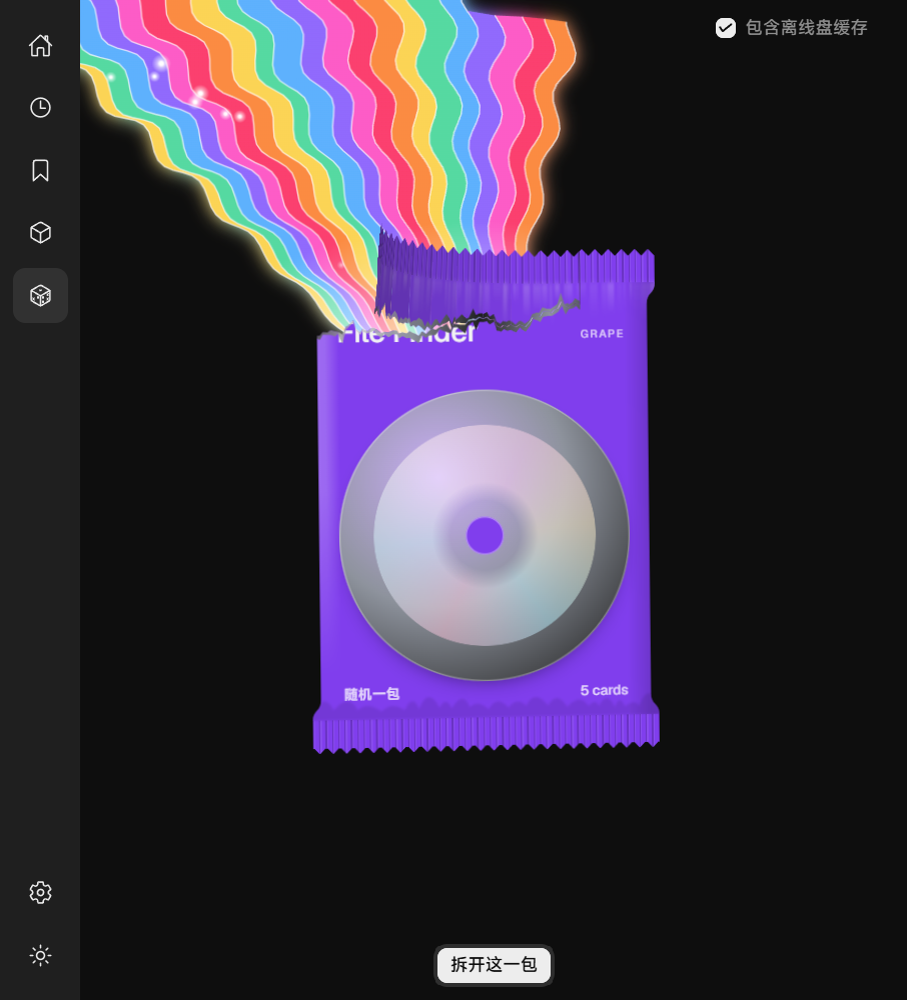
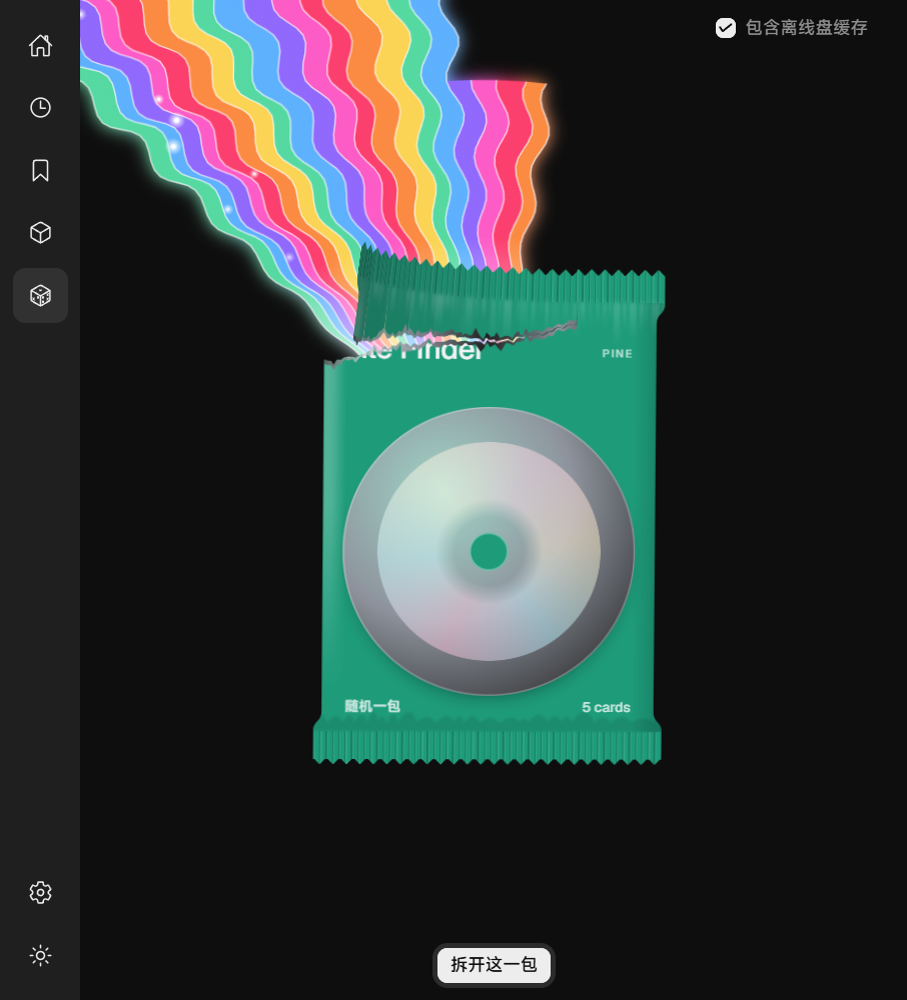
fix(lucky): card radius from --cw (not cqw), tear impulse feeds the rainbow

Changed region(s): [[0.0617, 0.0, 0.7409, 0.775]]

diff --git a/src/components/LuckyDiscCard/index.vue b/src/components/LuckyDiscCard/index.vue
@@ -126,11 +126,17 @@ function onLeave(ev: PointerEvent) {
     }
 }
 
-/* 厚度：三层叠片。底色必须是"两套主题下都比卡面暗一档"的那个 —— `--ff-canvas` 恰好成立 */
+/**
+ * 厚度：三层叠片。
+ *
+ * ⚠ 圆角必须用 `calc(var(--cw) * .05)`，**不能用 cqw**。
+ *    `cqw` 是"最近的容器"的 1%，而 `.slab` 不在 `.face` 里面 ⇒ 它一路找上去，
+ *    最后落在**视口**上 —— 5cqw 变成 64px，卡片被削成圆饼（真机就是这么丑的）。
+ */
 .slab {
     position: absolute;
     inset: 0;
-    border-radius: 5cqw;
+    border-radius: calc(var(--cw) * 0.05);
     background: var(--ff-canvas);
     pointer-events: none;
 
@@ -152,7 +158,9 @@ function onLeave(ev: PointerEvent) {
 .face {
     position: absolute;
     inset: 0;
-    border-radius: 5cqw;
+    /* 同上：`container-type` 的元素**不能查询自己** ⇒ 这里的 cqw 也会落到视口。
+       5% 卡宽 = 一张实体卡的标准圆角。 */
+    border-radius: calc(var(--cw) * 0.05);
     overflow: hidden;
     isolation: isolate;
     container-type: inline-size;
@@ -168,7 +176,7 @@ function onLeave(ev: PointerEvent) {
     right: 6%;
     top: 4.3%;
     height: 60%;
-    border-radius: 4cqw;
+    border-radius: calc(var(--cw) * 0.04);
     overflow: hidden;
     background: var(--ff-card-paper-bottom);
     box-shadow:
@@ -186,7 +194,7 @@ function onLeave(ev: PointerEvent) {
 .art--paper {
     display: grid;
     place-items: center;
-    font: 500 9cqw/1 var(--ff-font);
+    font: 500 calc(var(--cw) * .09)/1 var(--ff-font);
     letter-spacing: 0.06em;
     color: color-mix(in srgb, var(--ff-card-ink) 55%, transparent);
 }
@@ -210,7 +218,7 @@ function onLeave(ev: PointerEvent) {
        不留空间就会顶到胶囊上 —— 参考站的名字短（"Cubit"）所以没这个问题。 */
     right: 34%;
     top: 68.5%;
-    font: 500 7.6cqw/1.15 var(--ff-font);
+    font: 500 calc(var(--cw) * .076)/1.15 var(--ff-font);
     letter-spacing: -0.01em;
     white-space: nowrap;
     overflow: hidden;
@@ -221,9 +229,9 @@ function onLeave(ev: PointerEvent) {
     position: absolute;
     right: 7%;
     top: 69.6%;
-    padding: 1.4cqw 2.2cqw;
-    border-radius: 9cqw;
-    font: 500 3.8cqw/1 var(--ff-font);
+    padding: calc(var(--cw) * .014) calc(var(--cw) * .022);
+    border-radius: calc(var(--cw) * .09);
+    font: 500 calc(var(--cw) * .038)/1 var(--ff-font);
     letter-spacing: 0.05em;
     white-space: nowrap;
 }
@@ -252,7 +260,7 @@ function onLeave(ev: PointerEvent) {
 .rar {
     position: absolute;
     bottom: 5.5%;
-    font: 400 3.4cqw/1 var(--ff-font);
+    font: 400 calc(var(--cw) * .034)/1 var(--ff-font);
     font-variant-numeric: tabular-nums;
     color: color-mix(in srgb, var(--ff-card-ink) 58%, transparent);
 }

diff --git a/src/components/LuckyPack/index.vue b/src/components/LuckyPack/index.vue
@@ -122,6 +122,8 @@ let lastPhase = props.phase;
 let openedFired = false;
 /** 下一次"自己抖一下"的时刻（秒，`t` 坐标系） */
 let nudgeAt = 5;
+/** 上一帧的撕裂进度，用来算"这一帧撕了多少" */
+let tearLast = 0;
 let openedAt = 0;
 let pw = 280;
 let ph = 405;
@@ -230,6 +232,23 @@ const stage = useStage((dt, t) => {
         emit('opened');
     }
     if (p > 0) applyClips(p);
+
+    /**
+     * 撕动一下 → 整包抖一下、光带往前涌一截、攥紧一点。
+     *
+     * 这是"撕开"和"彩虹"之间唯一的耦合点（参考站同一处：`dp` 驱动四根弹簧）。
+     * 没有它，撕口在动、彩虹在匀速扩散，看起来就是两段不相干的动画。
+     */
+    const dp = p - tearLast;
+    tearLast = p;
+    if (dp > 0 && !stage.reduce) {
+        const seed = Math.min(dp, 0.02);
+        P.rz.v += (Math.random() - 0.5) * seed * 900;
+        P.y.v += dp * 420;
+        tearTh.v += dp * 300;
+        squeeze.v += dp * 20;
+        flow?.kick(dp);
+    }
     if (flapEl.value) {
         // 松手后撕条在"从撕口吹出的气流"里飘：两个不同频率的正弦叠加
         const draft = drag ? 0 : (Math.sin(t * 5.3) + Math.sin(t * 8.7) * 0.5) * (p > 0 && p < 1 ? 1 : 0);

diff --git a/src/views/Lucky/flow.ts b/src/views/Lucky/flow.ts
@@ -132,6 +132,17 @@ export class RainbowFlow {
         this.fit();
     }
 
+    /**
+     * 撕动一下的冲量。
+     *
+     * 参考站每帧按"这一帧撕了多少"给光带一个 `g.v += dp*6`：光带不是匀速长出来的，
+     * 而是**手每扯一下、就往前涌一截**。少了这个，撕口和彩虹就是两件事各演各的
+     * （这就是"配合差点意思"）。
+     */
+    kick(amount: number): void {
+        for (const b of this.ribbons) if (b.on) b.g.v += amount * 6;
+    }
+
     reset(): void {
         this.glow.x = this.glow.to = this.glow.v = 0;
         this.drained = false;
